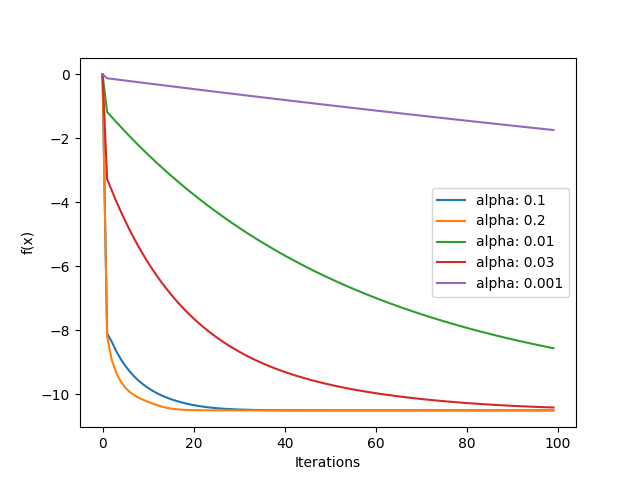
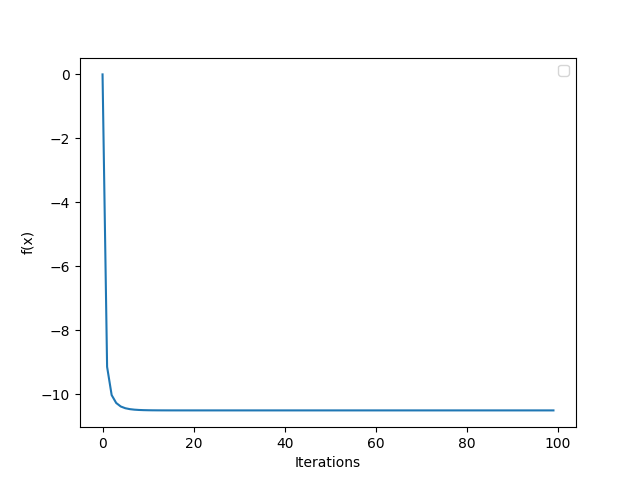
updating que4

diff --git a/CMO/24806_CMO_A2/24806_CMO_A2.py b/CMO/24806_CMO_A2/24806_CMO_A2.py
@@ -64,12 +64,14 @@ def ConstantGradientDescent(fun, alpha, initialx):
         fxvals.append(fx)
     return {"f": fxvals, "a": alpha, 'x': x}
 
-def NewtonMethod(fun, initialx):
+def NewtonMethod(fun, initialx, scale=False):
     x = initialx
     fxvals = []
     for i in range(100):
         fx = fun(x, sr, 0)
         u = fun(x, sr, 2)
+        if scale:
+            u = u / 1e6
         x = x - u
         fxvals.append(fx)
     return {"f": fxvals, 'x': x}
@@ -89,28 +91,20 @@ def GDNewton(fun, alpha, initialx, K):
         fxvals.append(fx)
     return {"f": fxvals, "a": alpha, "K":K, 'x': x}
 
-def GDNewtonInterleve(fun, alpha, initialx, K):
-    x = initialx
-    fxvals = []
-    for i in range(1, 101):
-        fx = fun(x, sr, 0)
-        if i % K == 0:
-            u = fun(x, sr, 2)
-            x = x - u
-        else:
-            gradfx = fun(x, sr, 1)
-            x = x - alpha * gradfx
-        fxvals.append(fx)
-    return {"f": fxvals, "a": alpha, "K":K, 'x': x}
-
-def quasiNewtonConstStep(fun, alpha, initialx):
+def quasiNewtonELS(fun, initialx):
     x = initialx
     G = np.eye(x.shape[0])
     g = fun(x, sr, 1)
     fvals = []
-    for i in range(100):
+    b = fun(np.zeros(x.shape[0]), sr, 1)
+    T = 0
+    while True:
+        T += 1
+        if np.linalg.norm(g) < 1e-3:
+            break;
         fvals.append(fun(x, sr, 0))
         u = -np.dot(G, g)
+        alpha = -np.dot(g, u) / (2 * (fun(u, sr, 0) - np.dot(b, u)))
         delta = alpha * u
         x = x + delta
         gnew = fun(x, sr, 1)
@@ -118,23 +112,27 @@ def quasiNewtonConstStep(fun, alpha, initialx):
         term = delta - np.dot(G, gamma) 
         G = G + np.dot(term.reshape(-1,1), term.reshape(-1,1).T) / np.dot(term, gamma)
         g = gnew
-    return {'f': fvals, 'x': x, 'a': alpha}
+    return {'f': fvals, 'x': x, 'T':T}
 
-def quasiNewtonId(fun, alpha, initialx):
+def quasiNewtonIdELS(fun, initialx):
     x = initialx
     G = np.eye(x.shape[0])
     g = fun(x, sr, 1)
     fvals = []
-    for i in range(100):
+    b = fun(np.zeros(x.shape[0]), sr, 1)
+    for i in range(100): 
+        # if np.linalg.norm(g) < 1e-3:
+        #     break;
         fvals.append(fun(x, sr, 0))
         u = -np.dot(G, g)
+        alpha = -np.dot(g, u) / (2 * (fun(-u, sr, 0) - np.dot(b, -u)))
         delta = alpha * u
         x = x + delta
         gnew = fun(x, sr, 1)
         gamma = gnew - g
         G = (np.dot(delta, delta) / np.dot(delta, gamma)) * np.eye(x.shape[0])
         g = gnew
-    return {'f': fvals, 'x': x, 'a': alpha}
+    return {'f': fvals, 'x': x}
 
 def que1():
     A, b = f1(sr, True)
@@ -229,11 +227,14 @@ def que3():
     # print(f"min f(x): {min(out2['f']):.3f}")
 
 
+    # out = NewtonMethod(f3, x0, scale=True)
     out = NewtonMethod(f3, x0)
 
     print("#### Que-3.2 ####")
     print(f"f(x) values for Newton")
     print(out['f'][:10])
+    # print(f"f(x) values for Newton (alpha = 1e-6)")
+    # print([round(i, 3) for i in out['f'][:10]])
 
     alphas = [0.01, 0.02, 0.1, 0.2]
     Ks = [60, 80, 85, 90, 100]
@@ -281,21 +282,16 @@ def que4():
         outs.append(out)
     plot_values(outs)
 
-    outs = []
     print("#### Quasi Newton Rank 1 ####")
-    for alpha in alphas:
-        out = quasiNewtonConstStep(f2, alpha, np.zeros(5))
-        outs.append(out)
-        print(f"alpha: {out['a']} x*: {out['x']}")
-    plot_values(outs)
+    out = quasiNewtonELS(f2, np.zeros(5))
+    print(f"Quasi Newton (alpha = Exact Line Search) x*: {out['x']}")
+    plot_values([out])
 
-    outs = []
+
     print("#### Quasi Newton scaler multiple of Identity ####")
-    for alpha in alphas:
-        out = quasiNewtonId(f2, alpha, np.zeros(5))
-        print(f"alpha: {out['a']} x*: {out['x']}")
-        outs.append(out)
-    plot_values(outs)
+    out = quasiNewtonIdELS(f2, np.zeros(5))
+    print(f"Quasi Newton (alpha = Exact Line Search) x*: {[round(i, 3) for i in out['x']]}")
+    plot_values([out])
 
 
 if __name__ == "__main__":
@@ -310,17 +306,14 @@ if __name__ == "__main__":
     run_map[f'q{que}']()
 
 """
-def quasiNewtonELS(fun, initialx):
+def quasiNewtonConstStep(fun, alpha, initialx):
     x = initialx
     G = np.eye(x.shape[0])
     g = fun(x, sr, 1)
     fvals = []
-    b = fun(x, sr, 1)
     for i in range(100):
         fvals.append(fun(x, sr, 0))
         u = -np.dot(G, g)
-        alpha = -np.dot(g, u) / 2 * (fun(u, sr, 0) - np.dot(b, u))
-        print(alpha)
         delta = alpha * u
         x = x + delta
         gnew = fun(x, sr, 1)
@@ -329,4 +322,36 @@ def quasiNewtonELS(fun, initialx):
         G = G + np.dot(term.reshape(-1,1), term.reshape(-1,1).T) / np.dot(term, gamma)
         g = gnew
     return {'f': fvals, 'x': x, 'a': alpha}
+
+def quasiNewtonId(fun, alpha, initialx):
+    x = initialx
+    G = np.eye(x.shape[0])
+    g = fun(x, sr, 1)
+    fvals = []
+    for i in range(100):
+        fvals.append(fun(x, sr, 0))
+        u = -np.dot(G, g)
+        delta = alpha * u
+        x = x + delta
+        gnew = fun(x, sr, 1)
+        gamma = gnew - g
+        G = (np.dot(delta, delta) / np.dot(delta, gamma)) * np.eye(x.shape[0])
+        g = gnew
+    return {'f': fvals, 'x': x, 'a': alpha}
+
+    # outs = []
+    # print("#### Quasi Newton Rank 1 ####")
+    # for alpha in alphas:
+    #     out = quasiNewtonConstStep(f2, alpha, np.zeros(5))
+    #     outs.append(out)
+    #     print(f"alpha: {out['a']} x*: {out['x']}")
+    # plot_values(outs)
+
+    # outs = []
+    # print("#### Quasi Newton scaler multiple of Identity ####")
+    # for alpha in alphas:
+    #     out = quasiNewtonId(f2, alpha, np.zeros(5))
+    #     print(f"alpha: {out['a']} x*: {out['x']}")
+    #     outs.append(out)
+    # plot_values(outs)
 """

diff --git a/CMO/24806_CMO_A2/test.py b/CMO/24806_CMO_A2/test.py
@@ -7,12 +7,13 @@ if __name__ == "__main__":
     fx = f2(a, sr, 0)
     print(fx)
 
-    gfx = f2(a, sr, 1)
-    print(gfx)
+    b = f2(a, sr, 1)
+    print(b)
 
-    b = 2*np.ones(5)
-    hfx1 = f2(b, sr, 2) 
-    hfx2 = f2(-b, sr, 2) 
+    x = np.ones(5)
+    hfx1 = f2(x, sr, 0) - np.dot(b, x) 
+    hfx2 = f2(-x, sr, 0) - np.dot(b, -x) 
 
     print(hfx1)
     print(hfx2)
+
